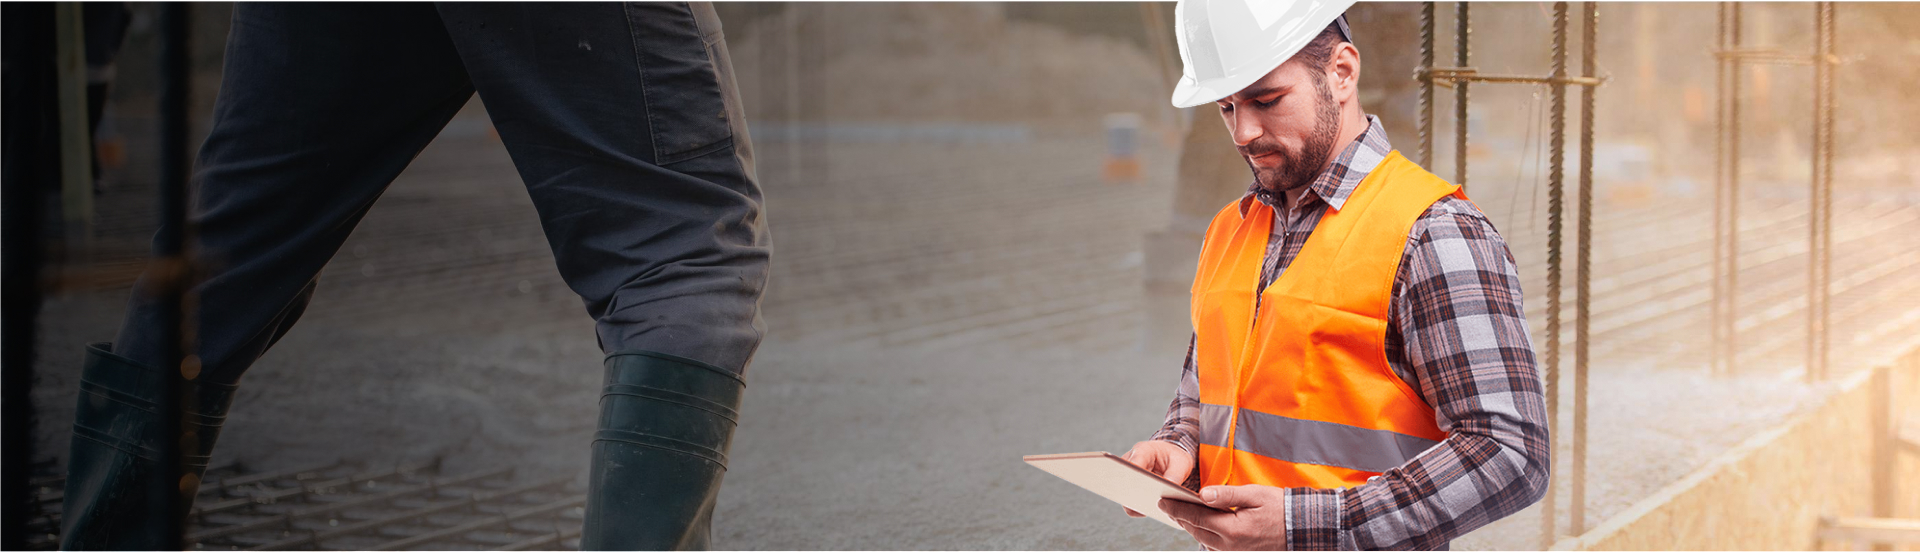
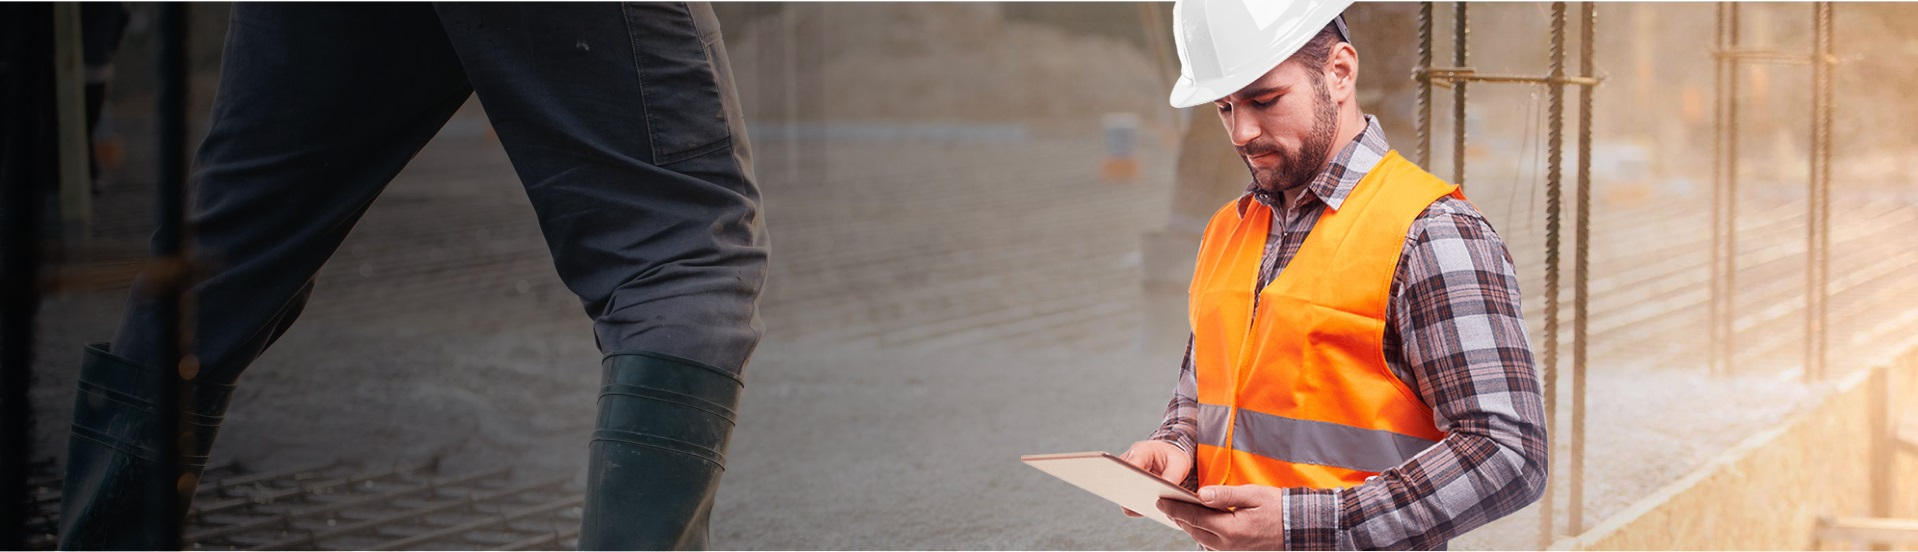
Банер

diff --git a/#src/scss/style.scss b/#src/scss/style.scss
@@ -177,18 +177,40 @@ h4 {
 //===================================================================================================================================
 
 .main-banner {
-	position: relative;
-	padding: 150px 0;
-	min-height: 600px;
+	padding: 251px 0 178px 0;
+	min-height: 551px;
 	background-repeat: no-repeat;
 	background-position: 0 0;
 	background-size: cover;
 	background-image: url('../img/main-banner.jpg');
 }
 
-.main-banner__title {}
+.main-banner__title {
+	position: relative;
+	color: #fff;
+	padding-left: 83px;
+	margin-bottom: 10px;
 
-.main-banner__subtitle {}
+	&::before {
+		content: '';
+		float: left;
+		position: absolute;
+		top: -30px;
+		left: 0;
+		width: 113px;
+		flex: 0 0 113px;
+		height: 65px;
+		background-size: 100%;
+		background-position: 0 0;
+		background-repeat: no-repeat;
[1 lines of base64/hex data omitted]
+	}
+}
+
+.main-banner__subtitle {
+	color: #fff;
+	line-height: 20px;
+}
 
 //========================================================================================================================================================
 

diff --git a/CKC/css/style.min.css b/CKC/css/style.min.css
@@ -3270,13 +3270,38 @@ body:not(.lg-from-hash) .lg-outer.lg-start-zoom .lg-item.lg-complete .lg-object 
 }
 
 .main-banner {
-  position: relative;
-  padding: 150px 0;
-  min-height: 600px;
+  padding: 251px 0 178px 0;
+  min-height: 551px;
   background-repeat: no-repeat;
   background-position: 0 0;
   background-size: cover;
   background-image: url("../img/main-banner.jpg");
+}
+
+.main-banner__title {
+  position: relative;
+  color: #fff;
+  padding-left: 83px;
+  margin-bottom: 10px;
+}
+.main-banner__title::before {
+  content: "";
+  float: left;
+  position: absolute;
+  top: -30px;
+  left: 0;
+  width: 113px;
+  flex: 0 0 113px;
+  height: 65px;
+  background-size: 100%;
+  background-position: 0 0;
+  background-repeat: no-repeat;
[1 lines of base64/hex data omitted]
+}
+
+.main-banner__subtitle {
+  color: #fff;
+  line-height: 20px;
 }
 
 @media (max-width: 1200px) {

diff --git a/#src/index.html b/#src/index.html
@@ -14,8 +14,12 @@
 			<section id="main-banner" class="main-banner section">
 				<div class="_container">
 
-					<h2 class="main-banner__title"></h2>
-					<p class="main-banner__subtitle"></p>
+					<h2 class="main-banner__title">ООО “СКС-Групп”</h2>
+					<p class="main-banner__subtitle">
+						Условное обозначение тенденций развития искусства, течений, школ, <br>
+						деятельности отдельных мастеров, стремящихся к обновлению <br>
+						современного художественного языка.
+					</p>
 
 				</div>
 			</section>

diff --git a/CKC/index.html b/CKC/index.html
@@ -75,8 +75,12 @@
 			<section id="main-banner" class="main-banner section">
 				<div class="_container">
 
-					<h2 class="main-banner__title"></h2>
-					<p class="main-banner__subtitle"></p>
+					<h2 class="main-banner__title">ООО “СКС-Групп”</h2>
+					<p class="main-banner__subtitle">
+						Условное обозначение тенденций развития искусства, течений, школ, <br>
+						деятельности отдельных мастеров, стремящихся к обновлению <br>
+						современного художественного языка.
+					</p>
 
 				</div>
 			</section>
